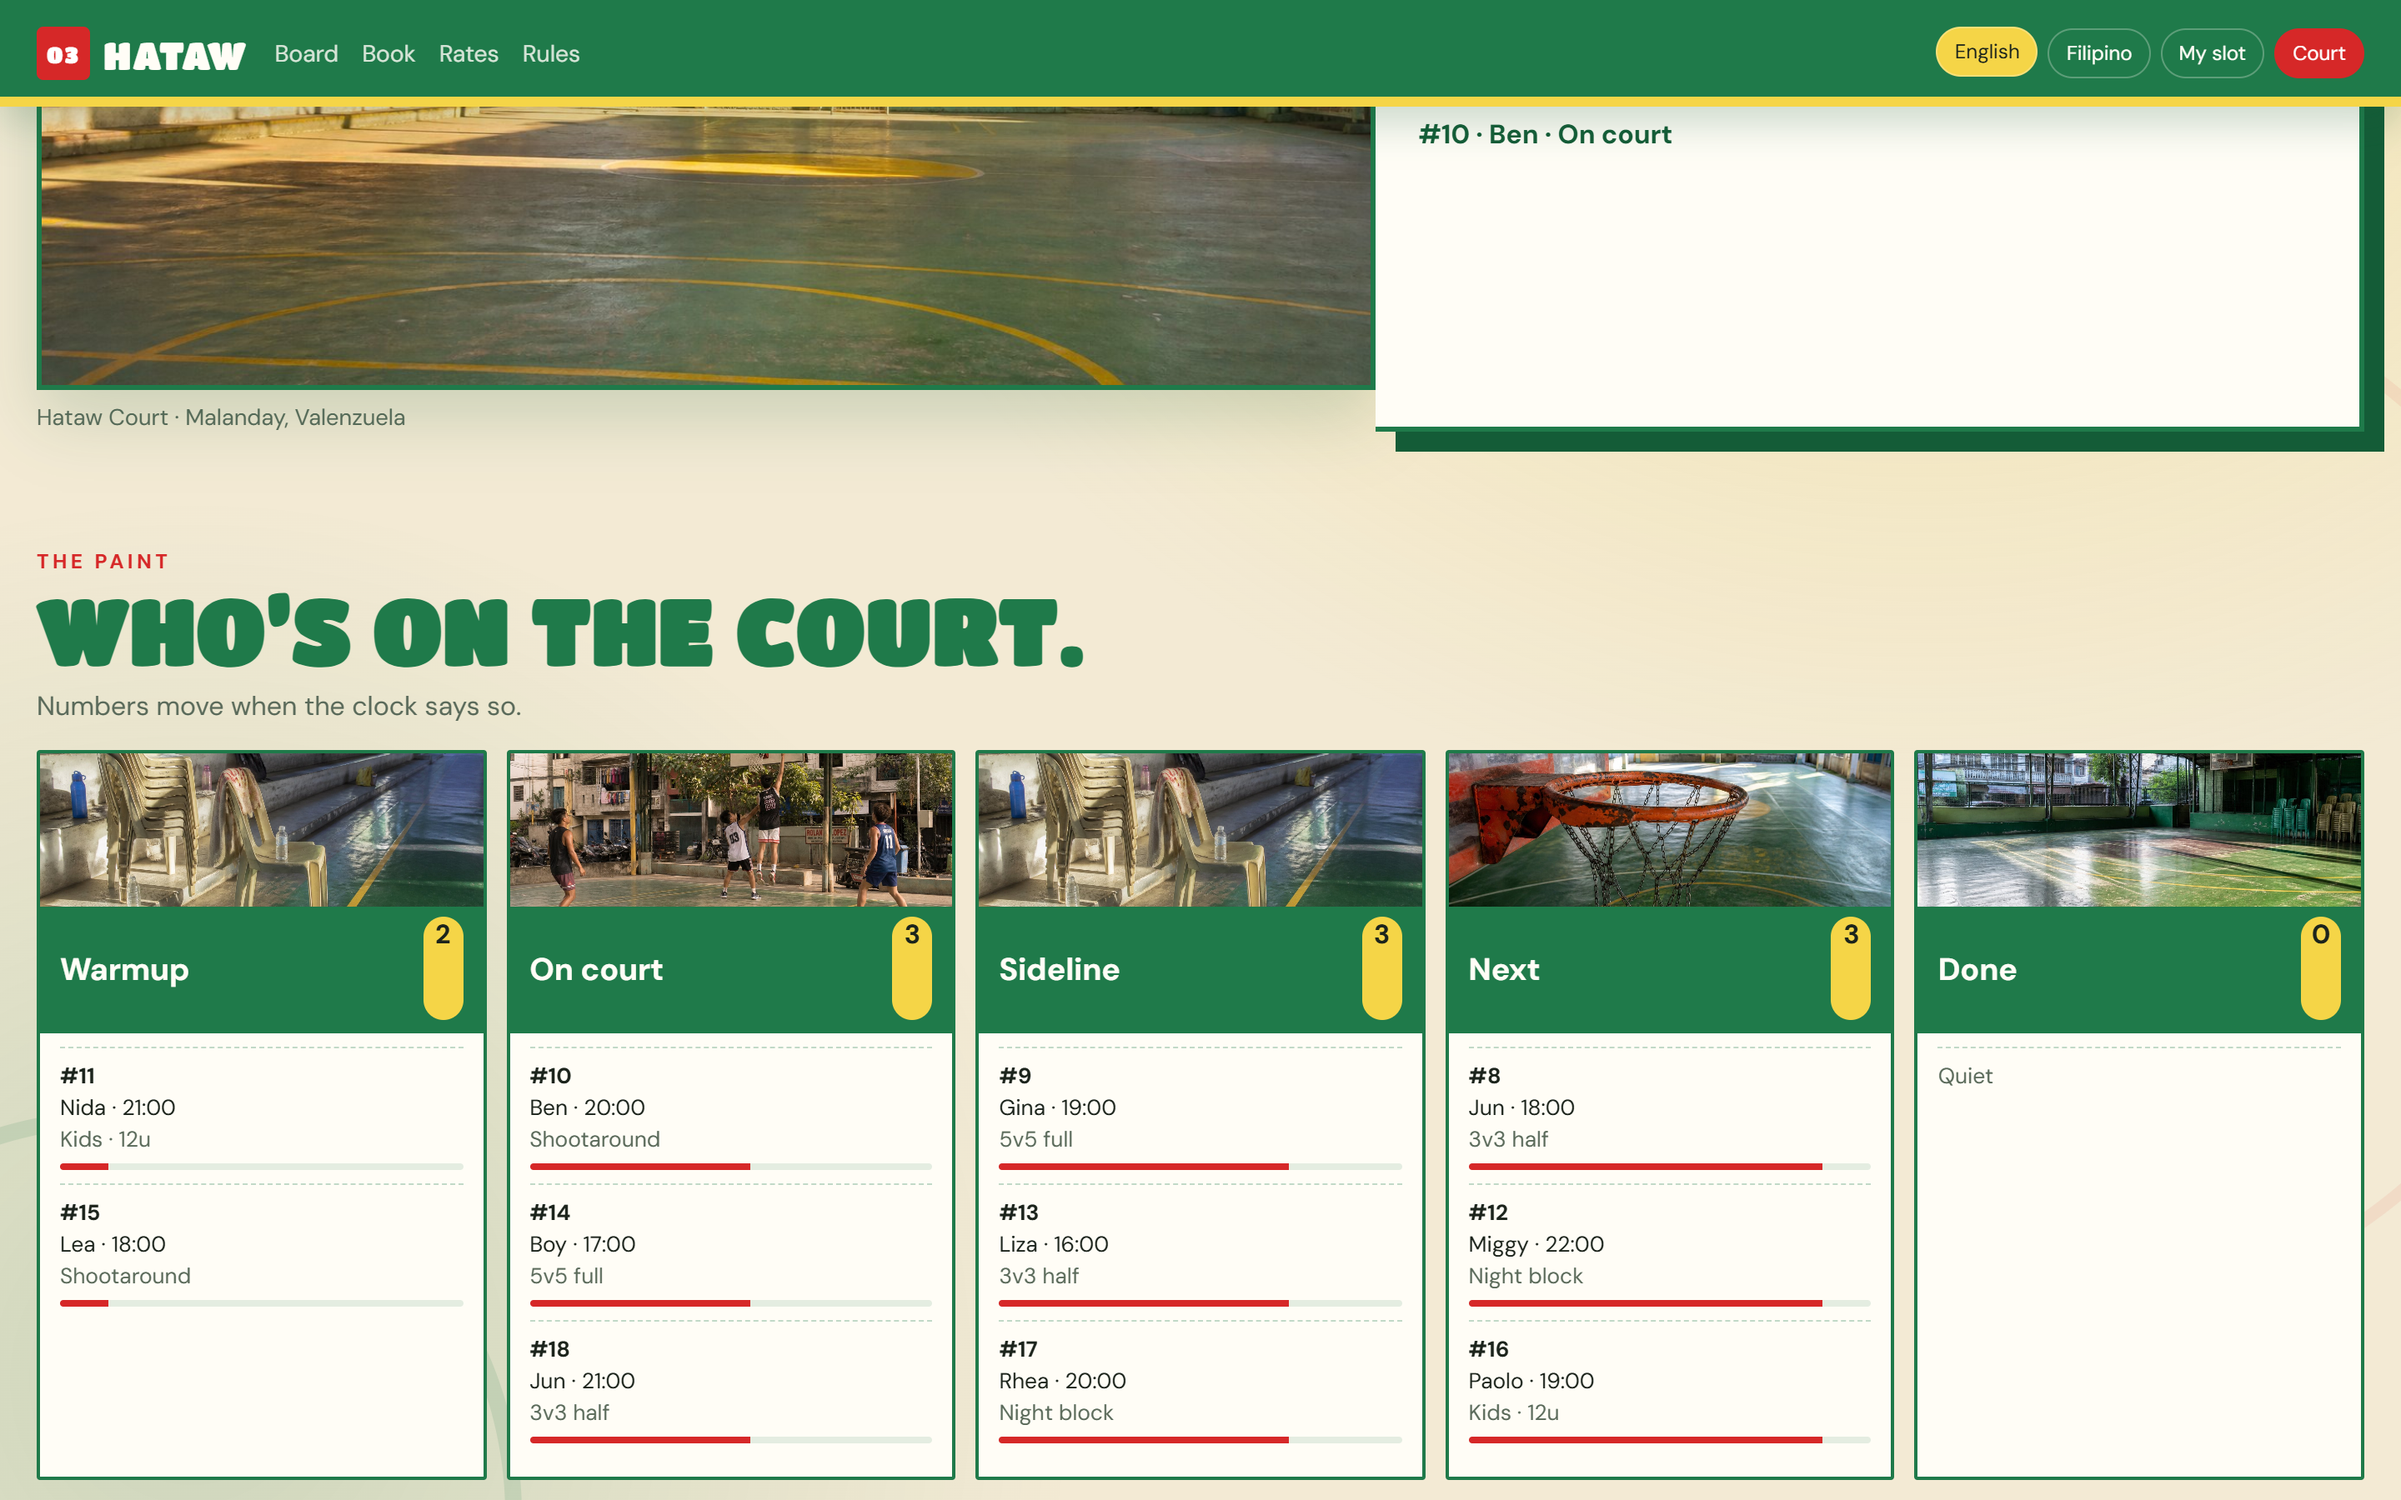
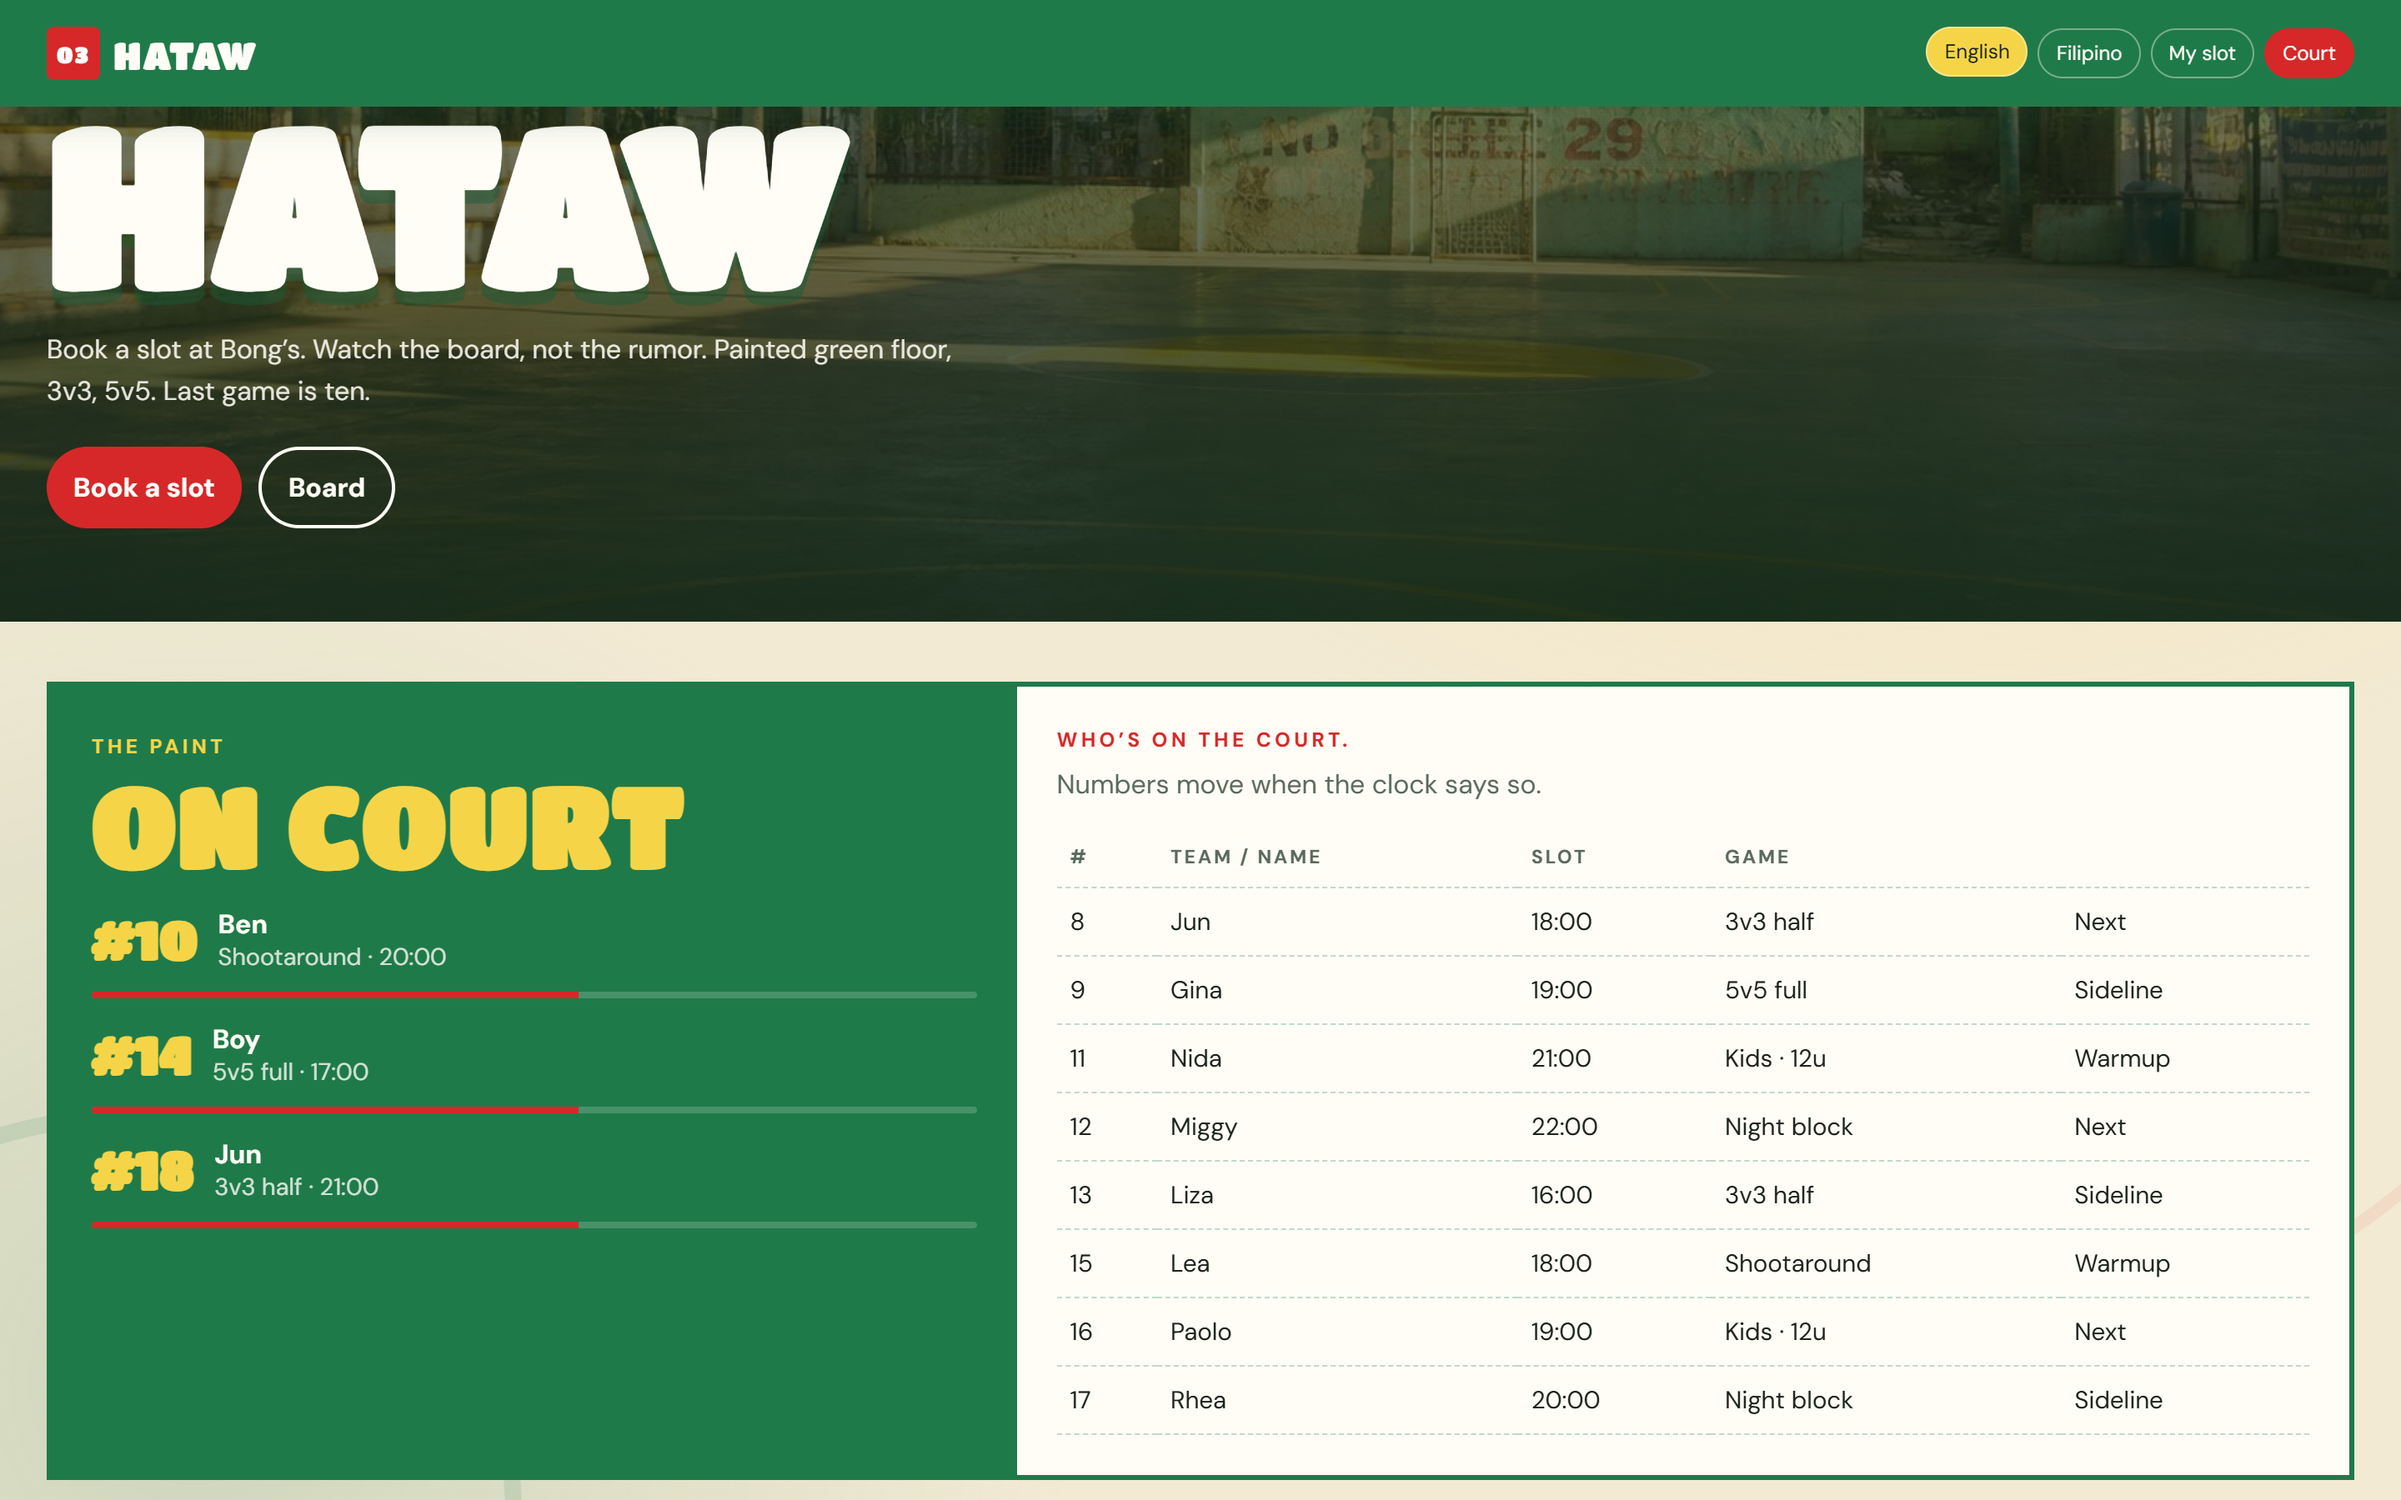
Rebuild Hataw’s layout as a scoreboard court, and drop the marquee.

diff --git a/src/content/projects/en/hataw.ts b/src/content/projects/en/hataw.ts
@@ -12,11 +12,11 @@ export default {
   videoBorder: false,
   live: "https://hataw.pages.dev/",
   description:
-    "A Valenzuela covered court — book 3v3 or full court at Bong’s, watch the board from warmup to on-court, claim the slot on the painted green floor. Last game is ten.<br/><br/>Vue 3 + Vite + GSAP. Jersey green, yellow lines, English/Filipino. Demo court: Hataw Court, Barangay Malanday Covered Court. Live on Cloudflare Pages.",
+    "A Valenzuela covered court — book 3v3 or full court at Bong’s, watch the scoreboard from warmup to on-court, claim the slot on the painted green floor. Last game is ten.<br/><br/>Vue 3 + Vite + GSAP. Jersey green, yellow lines, English/Filipino. Demo court: Hataw Court, Barangay Malanday Covered Court. Live on Cloudflare Pages.",
   components: [
-    { type: "media", props: { type: "image", src: img0, alt: "Hataw hero with painted green court and live slot ticker", caption: "Hero" } },
-    { type: "media", props: { type: "image", src: img1, alt: "Hataw board with Warmup, On court, Sideline, Next, and Done columns", caption: "The paint" } },
-    { type: "media", props: { type: "image", src: img2, alt: "Hataw booking form for team name, game, and slot", caption: "Counter" } },
-    { type: "media", props: { type: "image", src: img3, alt: "Hataw rate cards for 3v3, 5v5, shootaround, kids, and night block", caption: "Rates" } },
+    { type: "media", props: { type: "image", src: img0, alt: "Hataw full-bleed court hero", caption: "Hero" } },
+    { type: "media", props: { type: "image", src: img1, alt: "Hataw scoreboard with on-court panel and roster table", caption: "Scoreboard" } },
+    { type: "media", props: { type: "image", src: img2, alt: "Hataw rates list beside the booking sheet", caption: "Book" } },
+    { type: "media", props: { type: "image", src: img3, alt: "Hataw court photo bento", caption: "The floor" } },
   ],
 } as const satisfies ProjectContent;
